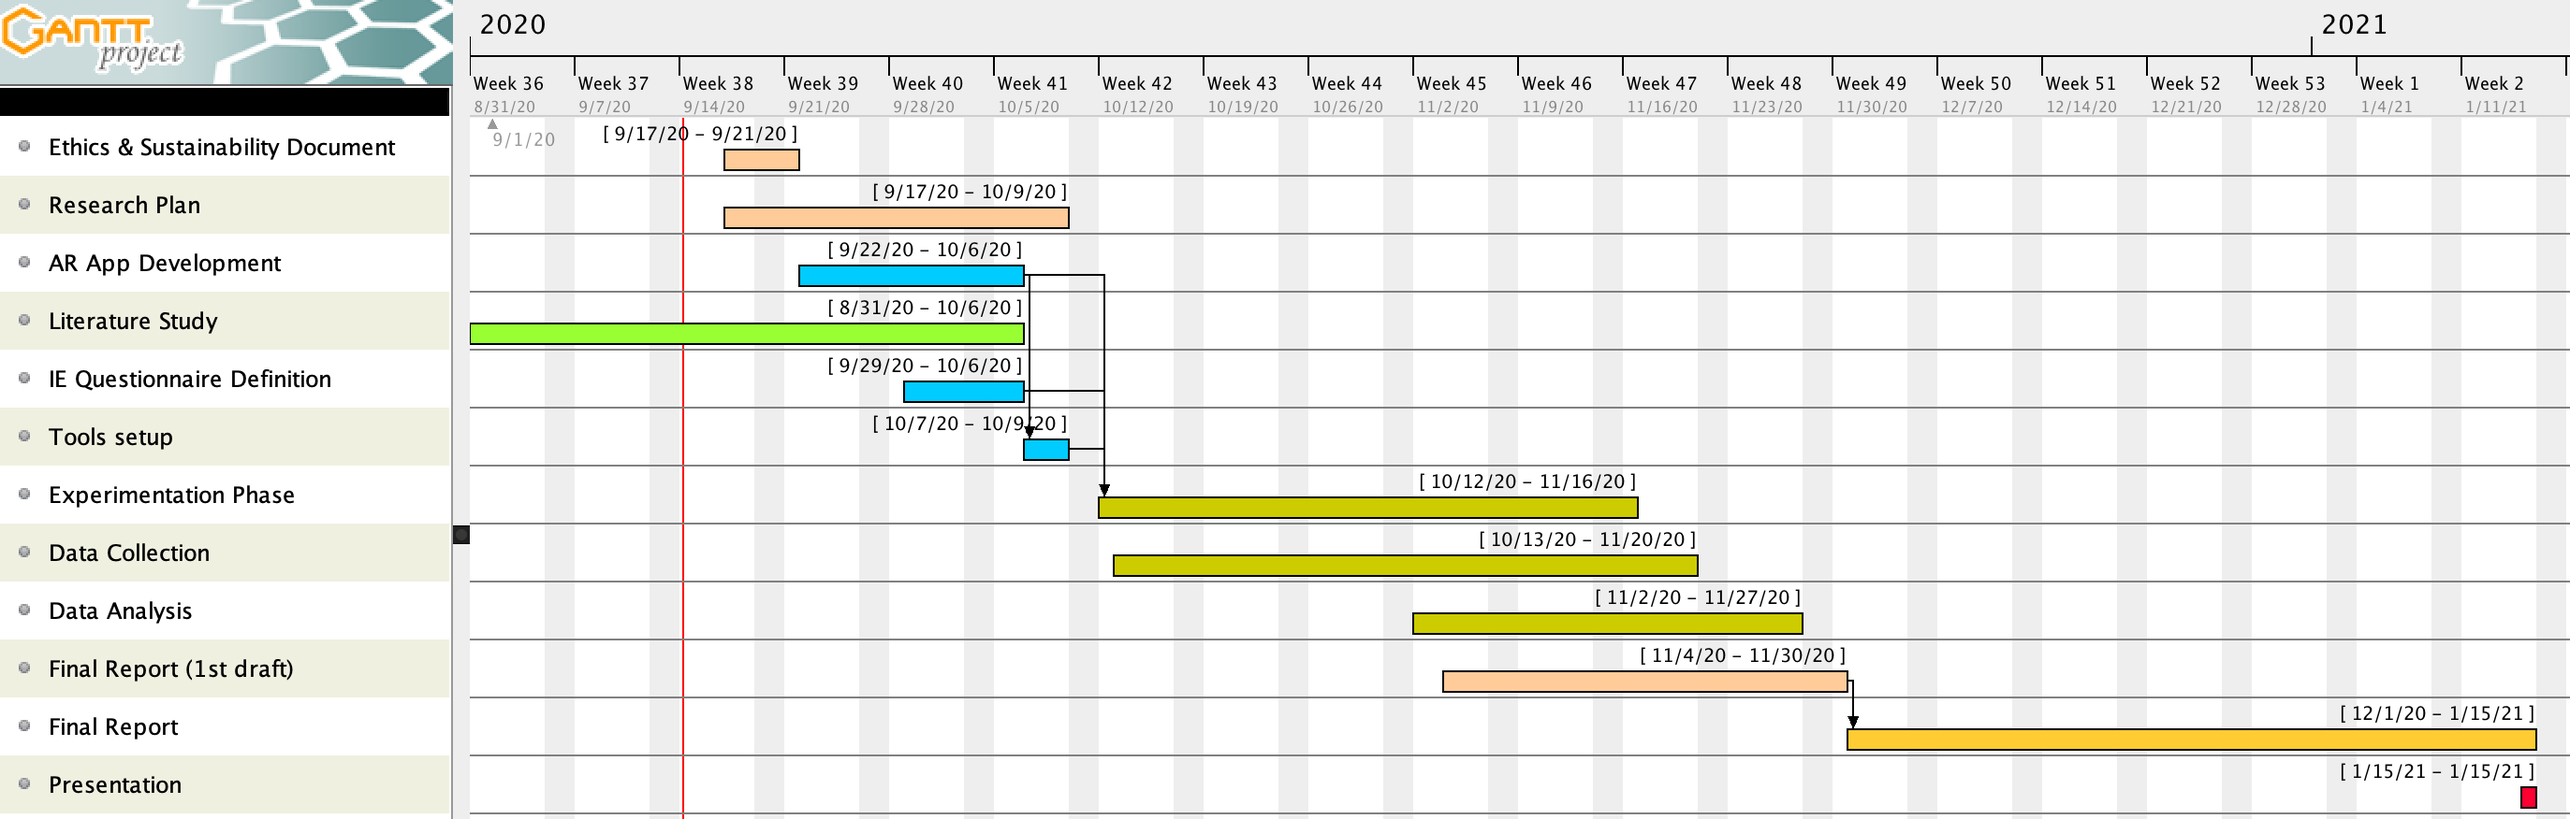
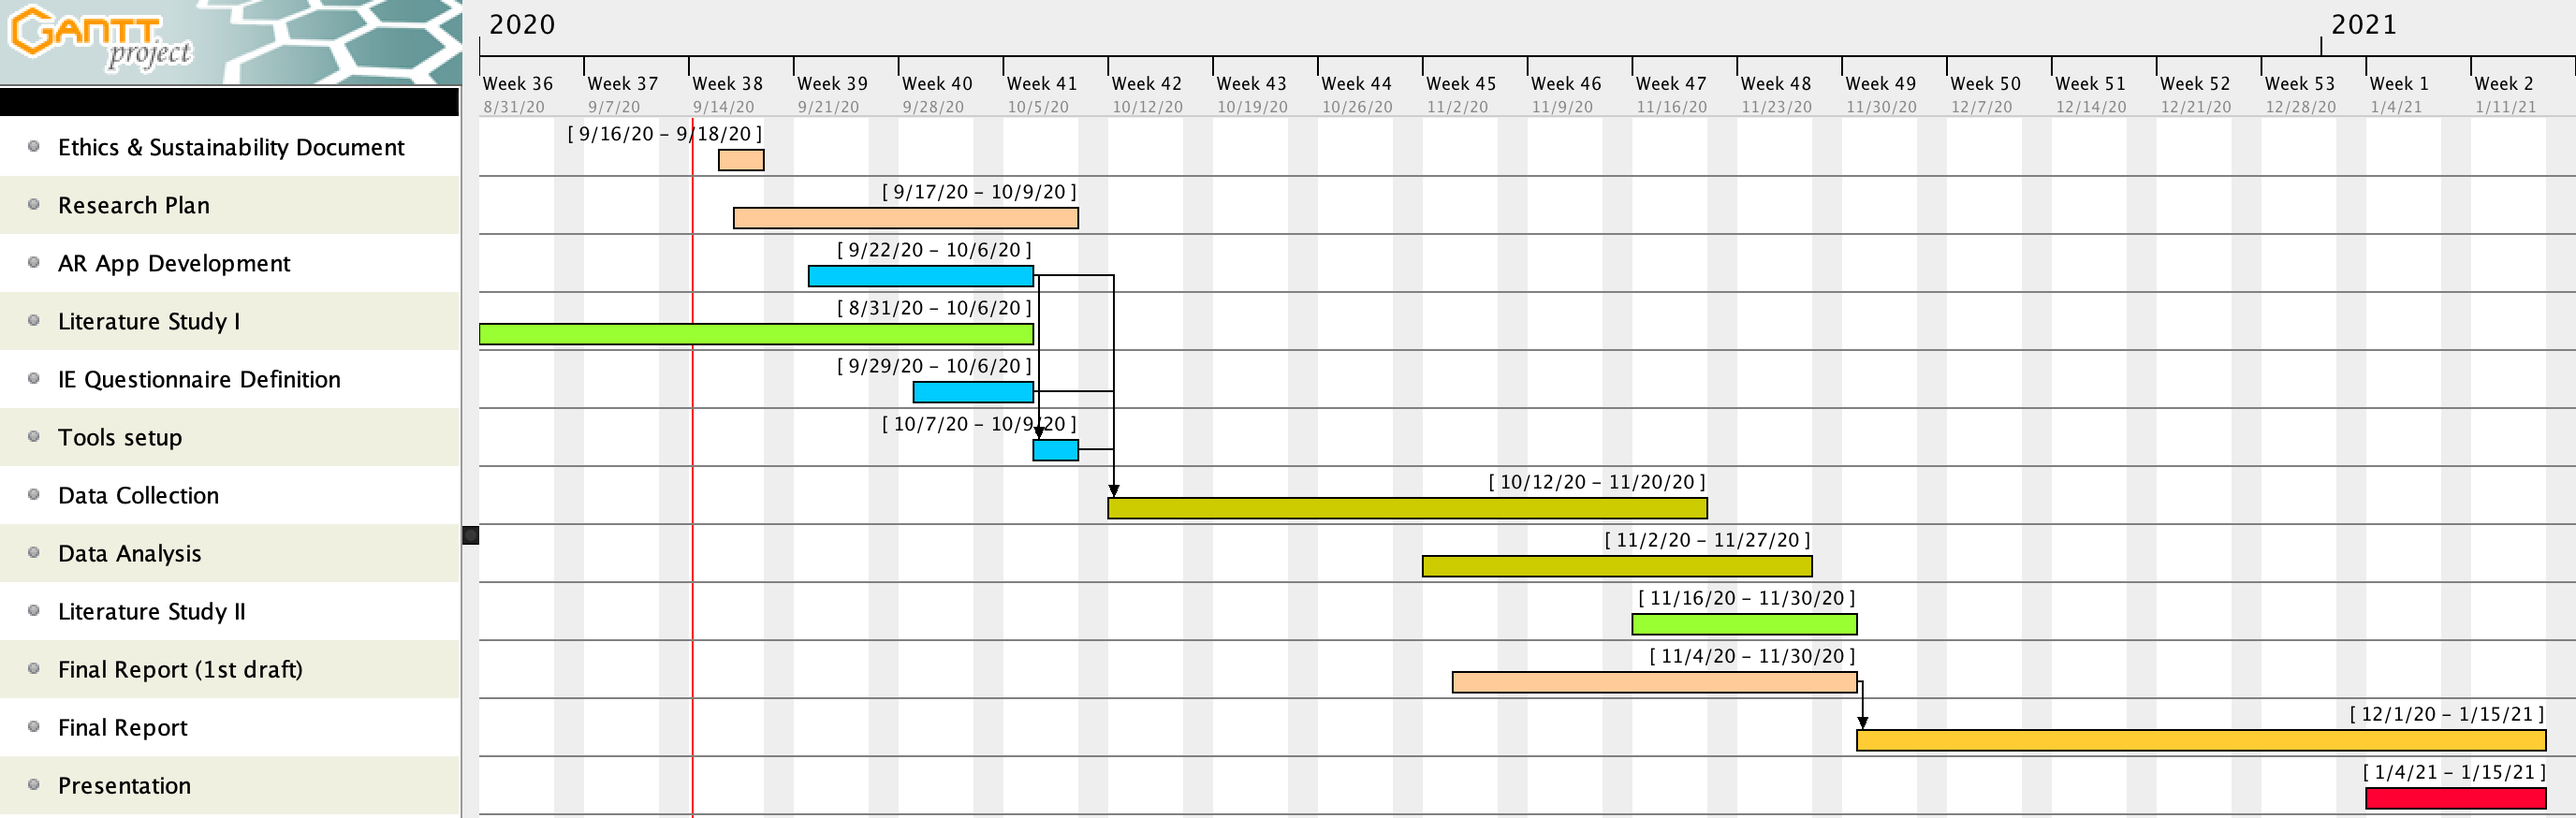
Milestones and Gantt Chart improved

diff --git a/II2202-proposal.tex b/II2202-proposal.tex
@@ -155,9 +155,7 @@ The project will start on 31 August 2020 and end at 00:00 on 15 January 2021. Th
 
 \item {Oct 9} Presentation of the Research Plan and setup of the tools needed for the experiment
 
-\item {Oct 12} The Experimentation Phase will start
-
-\item {Nov 16} The Experimentation Phase will end
+\item {Oct 12} The Experimentation and its data collection will start
 
 \item {Nov 20} All data will be collected
 
